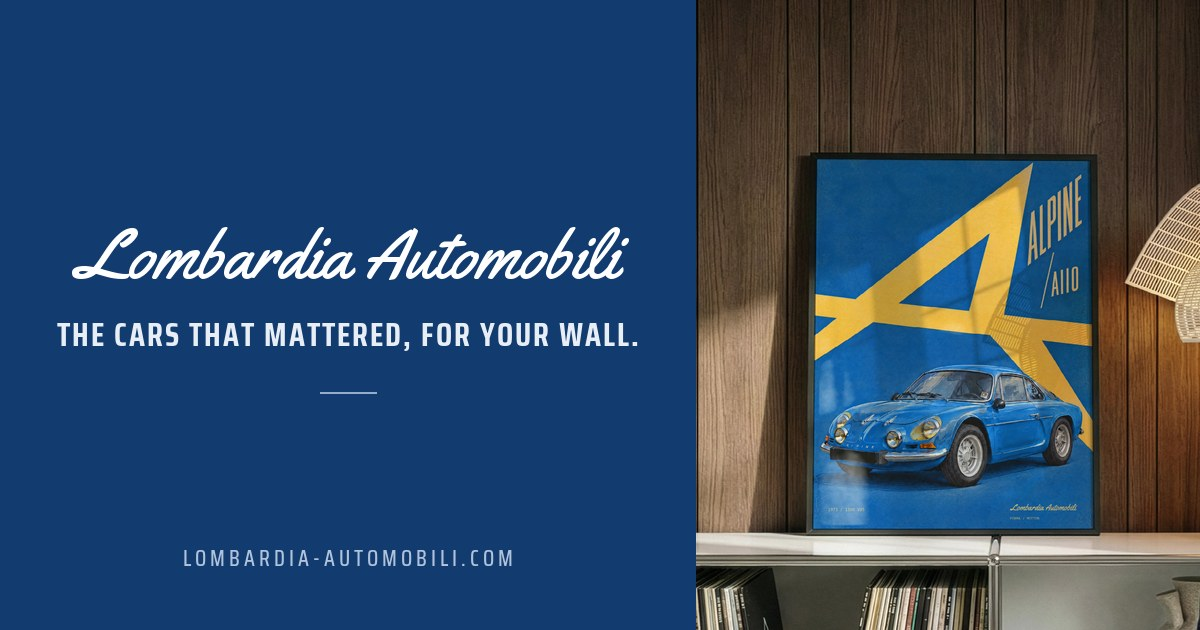
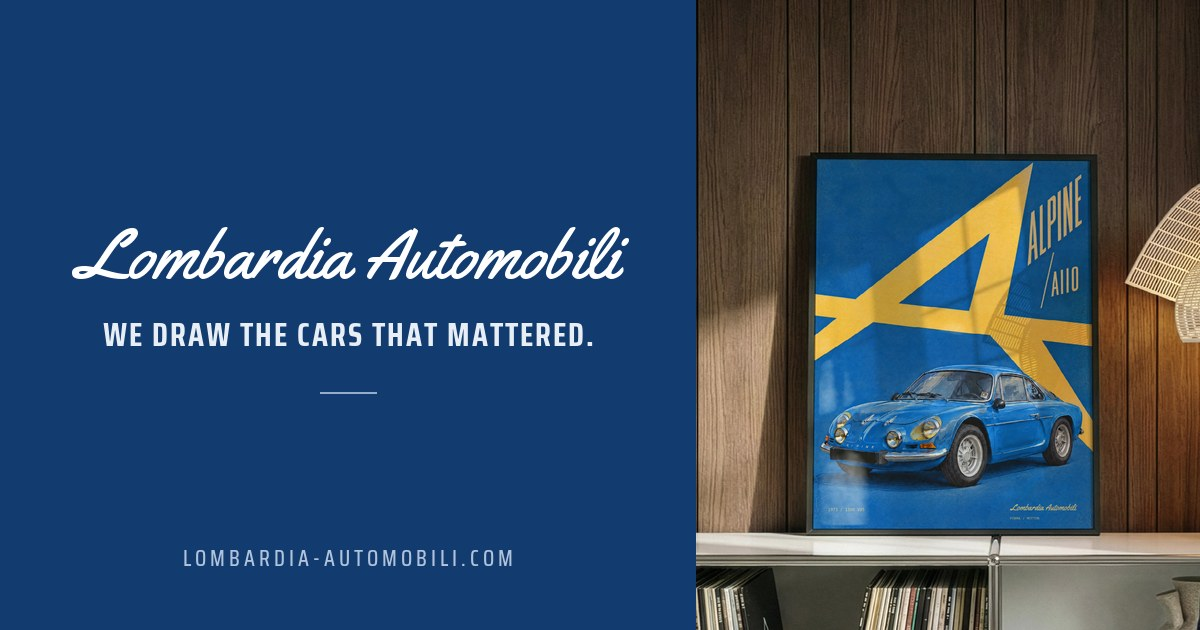
Headline back to: We draw the cars that mattered.
Claude-Session: https://claude.ai/code/session_01EJFJ1PuA277Hjb7BoMWFY1

Changed region(s): [[0.0308, 0.5127, 0.5242, 0.573]]

diff --git a/index.html b/index.html
@@ -46,7 +46,7 @@
   <div class="wrap hero-grid">
     <div class="hero-copy">
       <p class="eyebrow">A design house in Copenhagen</p>
-      <h1 id="h1">The cars that mattered, for your wall.</h1>
+      <h1 id="h1">We draw the cars that mattered.</h1>
       <p class="lede">Car posters, printed to order on 200 gsm matte fine art paper with archival inks. Four sizes, framed or rolled.</p>
       <a class="btn" href="https://www.etsy.com/shop/LombardiaAutomobili" target="_blank" rel="noopener">Shop on Etsy <svg viewBox="0 0 20 20" fill="none" stroke="currentColor" stroke-width="2" stroke-linecap="round" stroke-linejoin="round" aria-hidden="true"><path d="M4 10h12M11 5l5 5-5 5"/></svg></a>
       <ul class="proof">
@@ -236,7 +236,7 @@
       <a href="https://www.etsy.com/shop/LombardiaAutomobili" target="_blank" rel="noopener">Etsy</a>
       <a href="https://www.pinterest.com/lombardiaautomobili" target="_blank" rel="noopener">Pinterest</a>
     </nav>
-    <p class="legal">Lombardia Automobili is an independent design house, not affiliated with any of the car makers whose cars appear in its prints. Car names and marks belong to their owners and are used only to say which car is shown.</p>
+    <p class="legal">Lombardia Automobili is an independent design house, not affiliated with any of the car makers whose cars we draw. Car names and marks belong to their owners and are used only to say which car is drawn.</p>
     <p class="copy">&copy; 2026 Lombardia Automobili</p>
   </div>
 </footer>

diff --git a/404.html b/404.html
@@ -45,7 +45,7 @@
       <a href="https://www.etsy.com/shop/LombardiaAutomobili" target="_blank" rel="noopener">Etsy</a>
       <a href="https://www.pinterest.com/lombardiaautomobili" target="_blank" rel="noopener">Pinterest</a>
     </nav>
-    <p class="legal">Lombardia Automobili is an independent design house, not affiliated with any of the car makers whose cars appear in its prints. Car names and marks belong to their owners and are used only to say which car is shown.</p>
+    <p class="legal">Lombardia Automobili is an independent design house, not affiliated with any of the car makers whose cars we draw. Car names and marks belong to their owners and are used only to say which car is drawn.</p>
     <p class="copy">&copy; 2026 Lombardia Automobili</p>
   </div>
 </footer>
